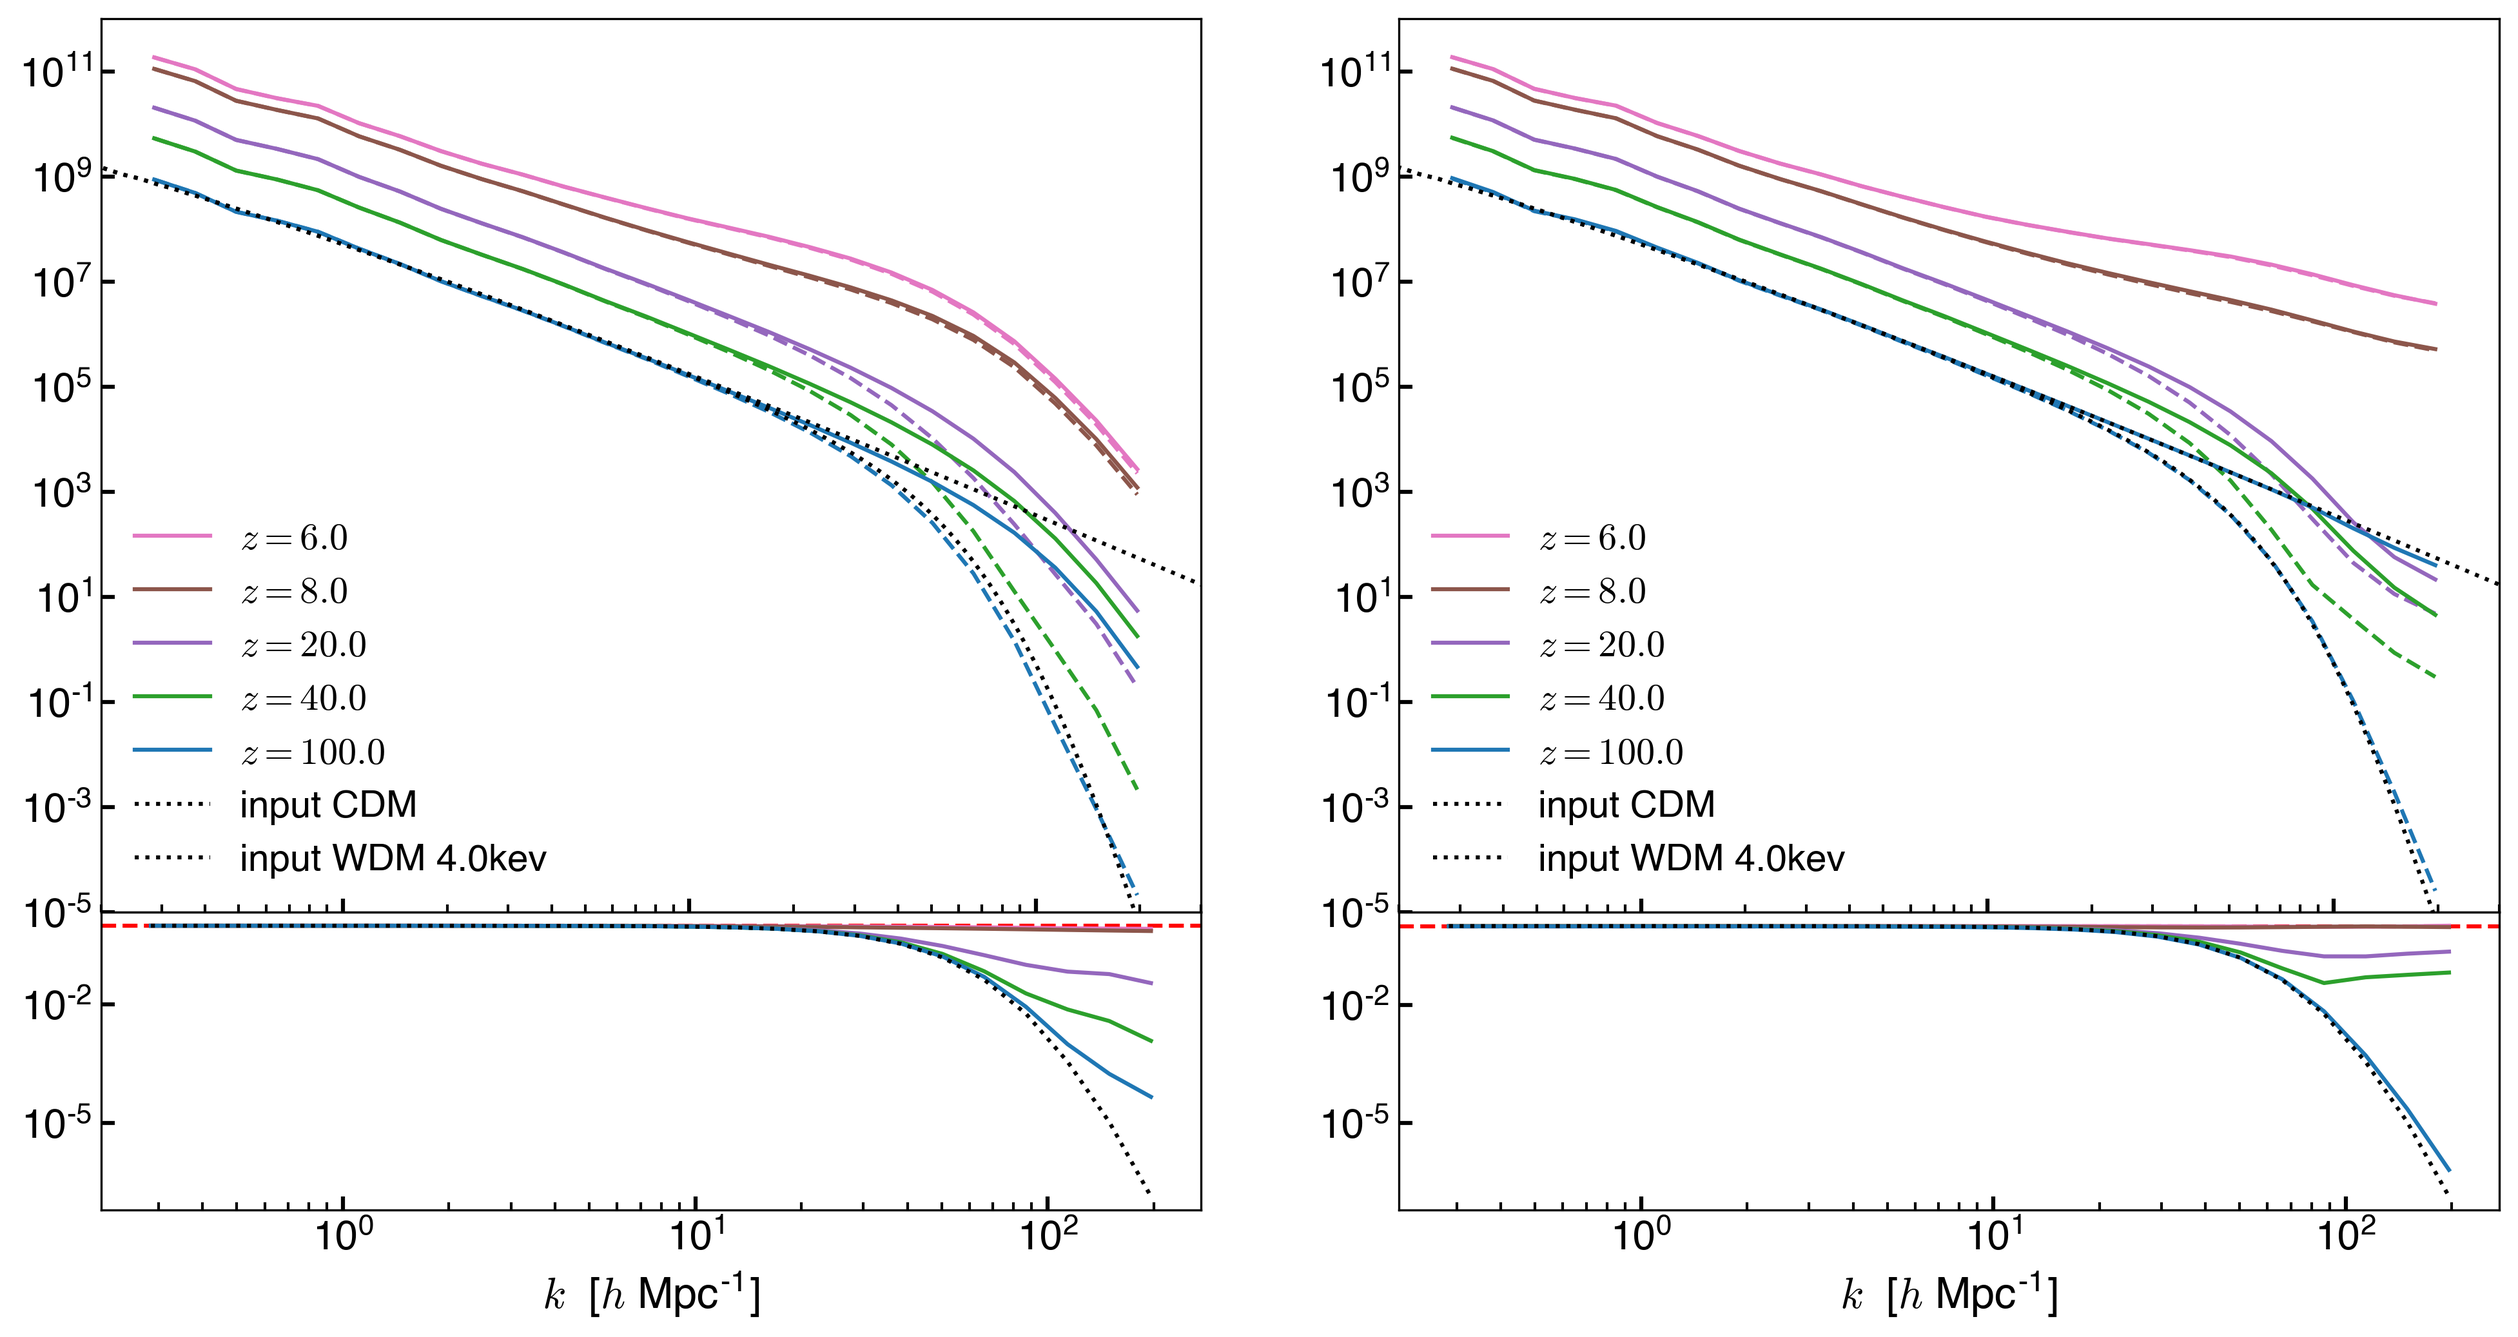
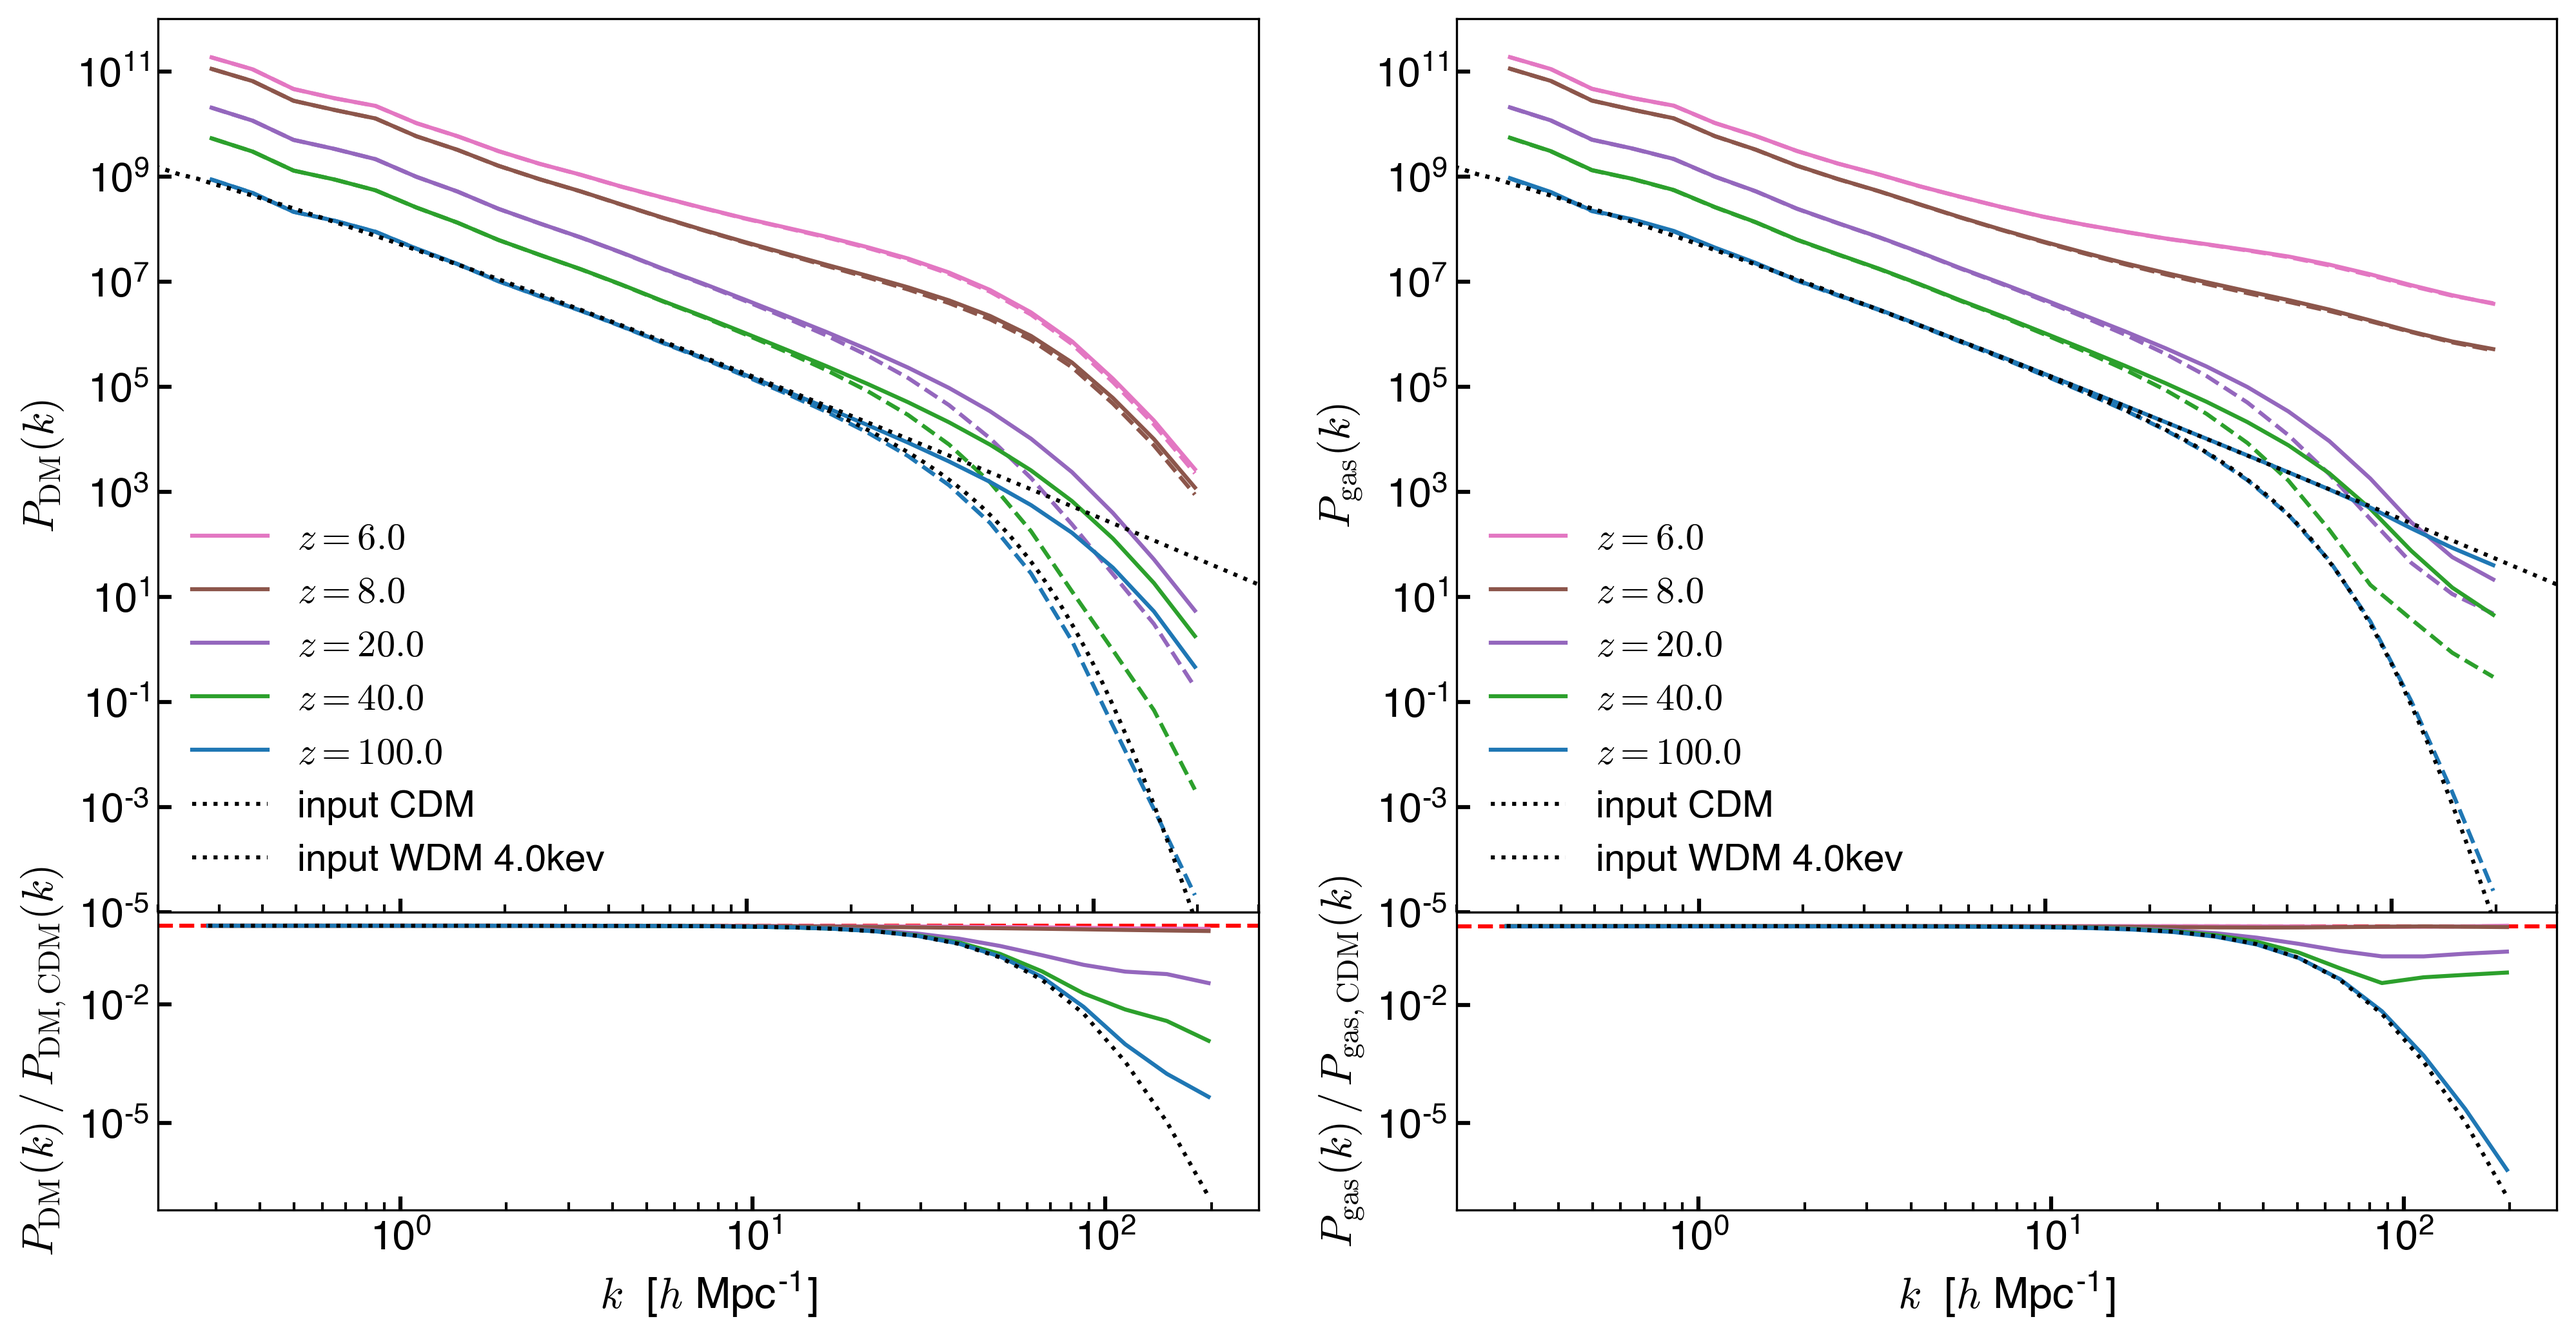
updated

diff --git a/astro/_posts/2022-05-24-tsc_simulations.md b/astro/_posts/2022-05-24-tsc_simulations.md
@@ -10,7 +10,17 @@ categorines: cholla
 
 ## Matter Power Spectrum
 
-Evolution of the power spectrum for a CDM and a WDM=4kev simulations. Dashed lines correspond to the WDM simulation.
+Evolution of the power spectrum for a CDM and a WDM=4kev simulations (DM on the right and gas on the left). Dashed lines correspond to the WDM simulation.
+
+Bottom panels show $$P_\mathrm{WDM}(k) / P_\mathrm{CDM}(k) $$ for DM and gas repectively.
+
+The black dashed lines show the input power spectrum used to generate the initial conditions by MUSIC.
+
+At the initial conditions CIC is closer to CDM but there is some suppression of small-scale power. This suppression is even larger for TSC,
+It might be that smearing the particles with the bigger kernel from TSC reduces the small-scale power more than CIC.
+
+On the other hand TSC is closer the the WDM input power spectrum, it's hard to tell if this is physical though. 
+
 
 ### CIC
 
@@ -25,6 +35,9 @@ Evolution of the power spectrum for a CDM and a WDM=4kev simulations. Dashed lin
 Now I compare the matter power spectrum ( DM and gas ) and also the Flux P(k) for the CIC and TSC simulations at the redshifts 
 from the observations
 
+The dashed lines correspond to the WDM Simulations of the CIC (blue) and TSC (orange) simulations. Full colored lines show the CDM simulations for CIC and TSC respectively.
+
+The Bottom panels show $$P_\mathrm{WDM,\,CIC}(k) / P_\mathrm{CDM,\,CIC}(k) $$ in blue and  $$P_\mathrm{WDM,\,TSC}(k) / P_\mathrm{CDM,\,TSC}(k)$$ in orange. The green dashed line corresponds the the ratio of the flux power spectrum $$P_\mathrm{WDM,\,TSC}(k) / P_\mathrm{CDM,\,CIC}(k)$$ and it shows that the Flux power spectrum is not significantly sensible the the choice of CIC or TSC.    
 
 ### z= 5.0   
 <img src="{{ site.url }}assets/images/wdm_pk_tsc/flux_ps_0.png">
